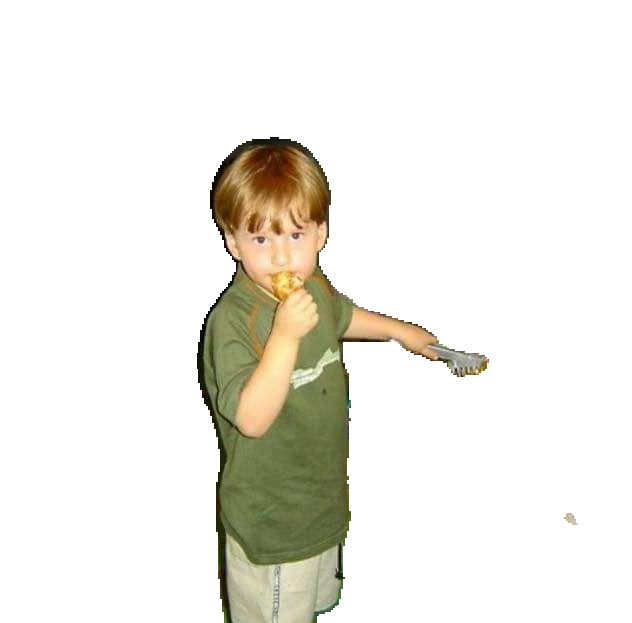
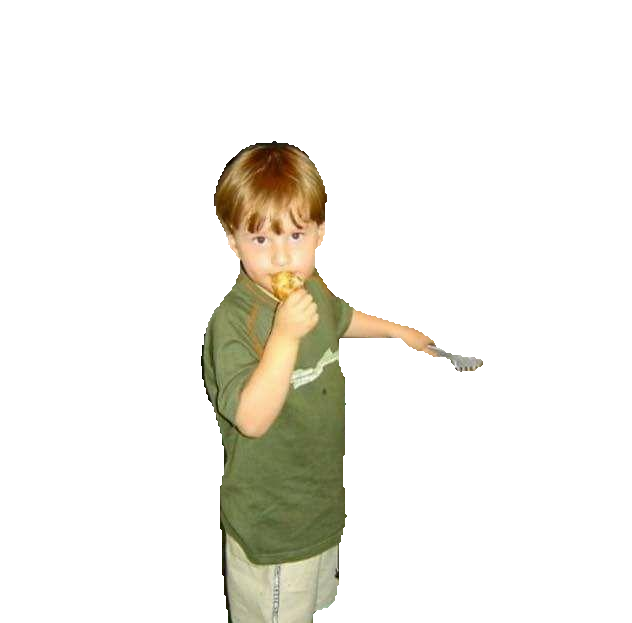
Adding gaussian filter to smooth U^2-Net mask

diff --git a/u2net/crop.py b/u2net/crop.py
@@ -1,5 +1,6 @@
 import os
 from skimage import io, transform
+from skimage.filters import gaussian
 import torch
 import torchvision
 from torch.autograd import Variable
@@ -46,10 +47,10 @@ def pred2mask(pred):
 
 def applyMask(img, mask):
     resized_mask = transform.resize(mask, (img.shape[0], img.shape[1]))
+    resized_mask = gaussian(resized_mask)
     resized_mask = np.array(resized_mask, dtype=np.uint8)
 
     masked_img = img
-    masked_img[resized_mask==0] = 0
     masked_img = np.dstack([img, 255*resized_mask])
     masked_img = Image.fromarray(masked_img).convert('RGBA')
     return masked_img
@@ -72,7 +73,7 @@ def crop_img(filename, model):
     # --------- inference for image ---------
     for i_test, data_test in enumerate(test_salobj_dataloader):
 
-        print("inferencing:",filename)
+        #print("inferencing:",filename)
 
         inputs_test = data_test['image']
         inputs_test = inputs_test.type(torch.FloatTensor)

diff --git a/README.md b/README.md
@@ -2,7 +2,7 @@
 
 - U-Net FCN model trained with COCO's dataset for human semantic segmentation. The model used was [zhixuhao's implementation of the U-Net](https://github.com/zhixuhao/unet).
 
-- $U^2$-Net model and weights used taken from [NathanUA's page](https://github.com/NathanUA/U-2-Net)
+- U^2-Net model and weights used taken from [NathanUA's page](https://github.com/NathanUA/U-2-Net)
 
 
 ![](img/sample-img.jpg)
